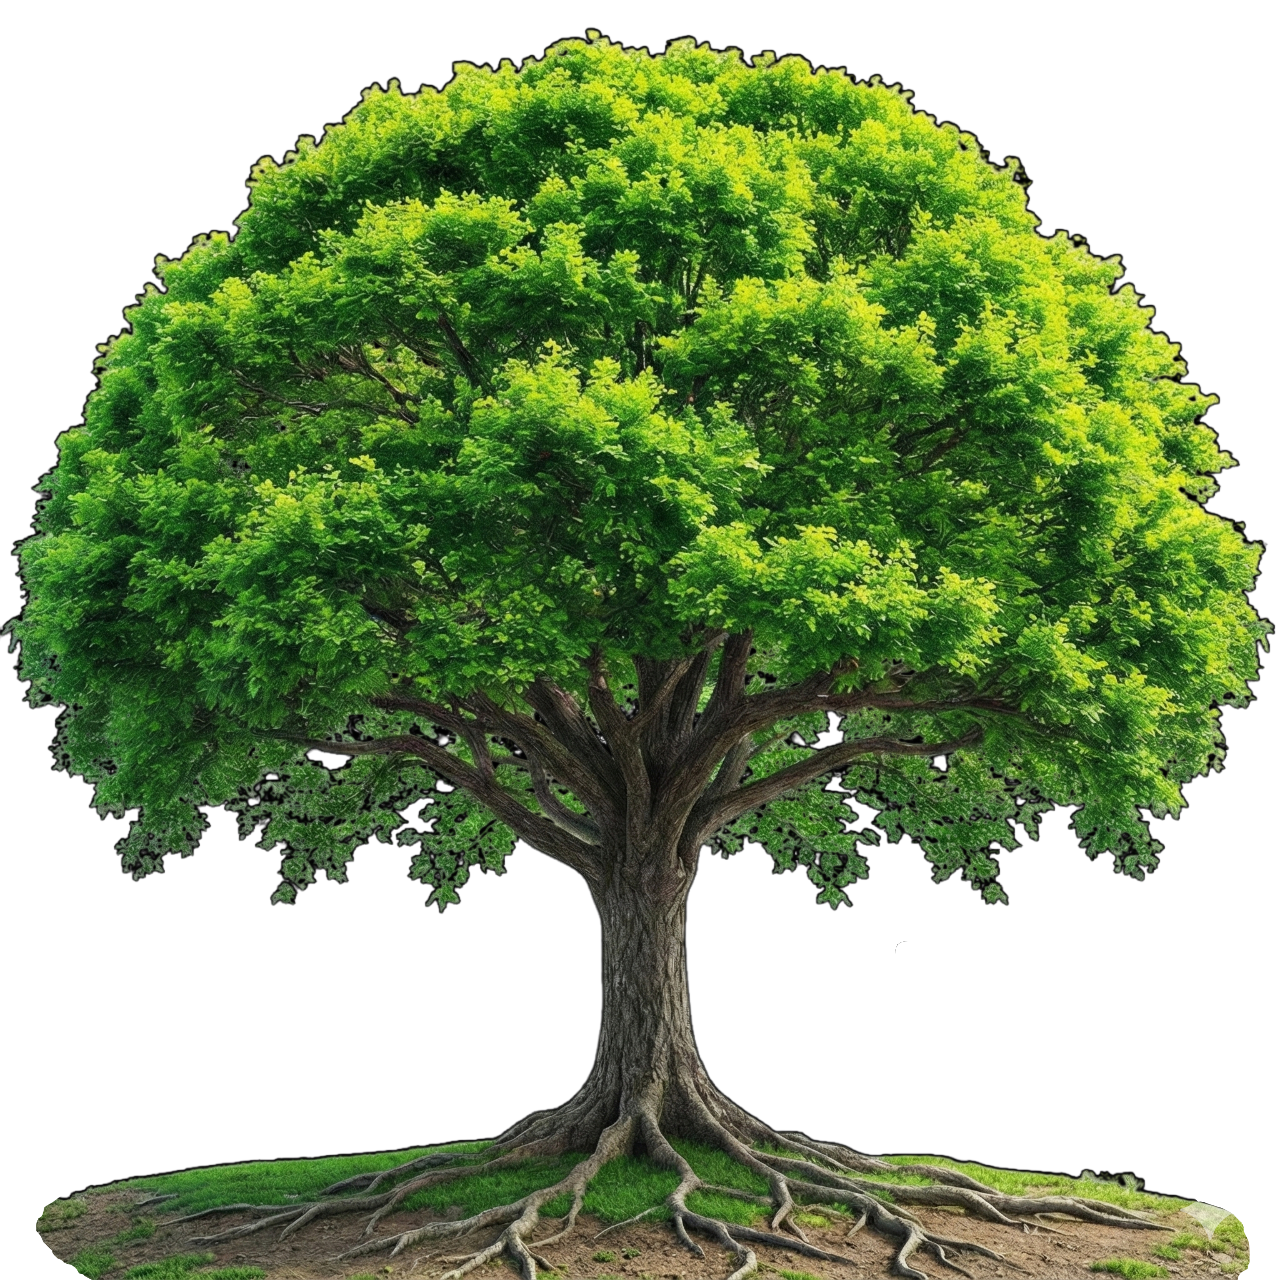
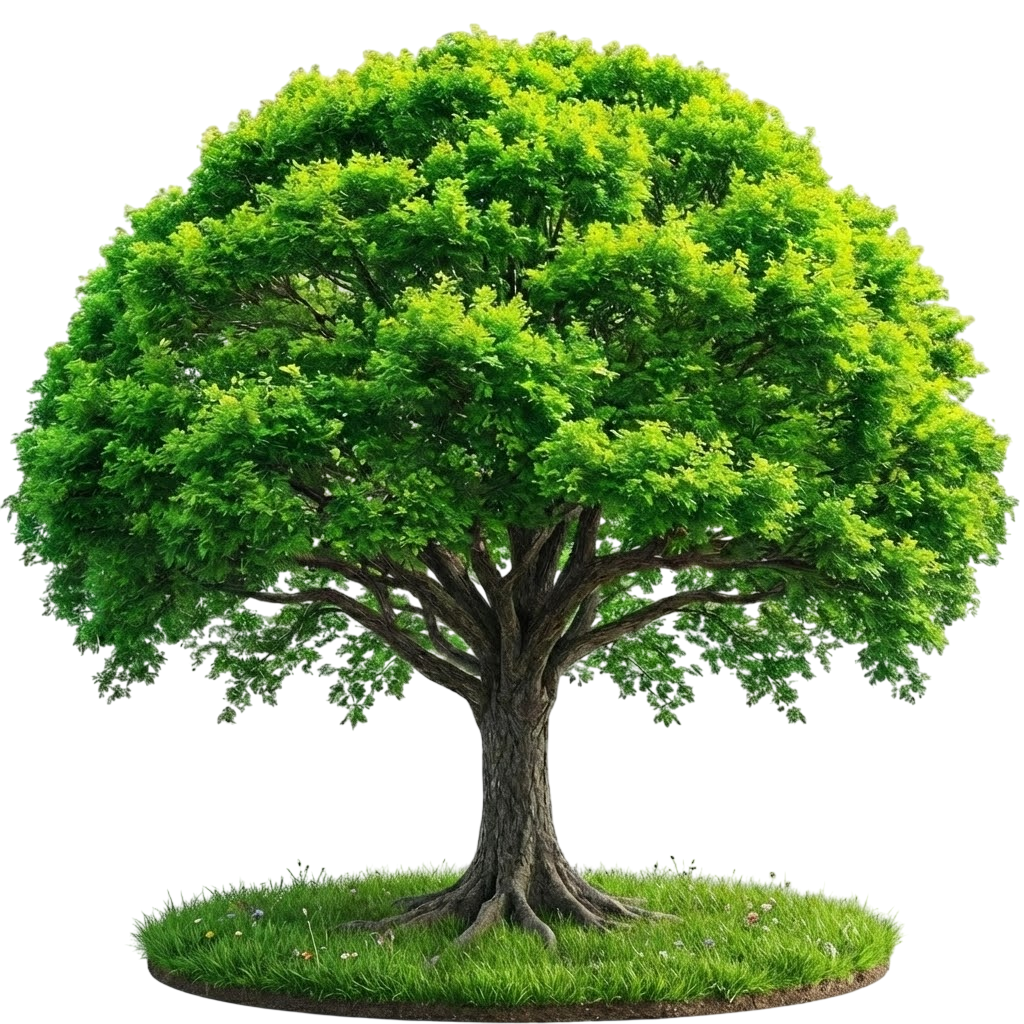
fix faq.js imports

Changed region(s): [[0.0, 0.0, 1.0, 1.0]]

diff --git a/src/styles.css b/src/styles.css
@@ -1548,7 +1548,7 @@ p {
 
 @media (max-width: 968px) {
   .about-split-section {
-    padding: 0;
+    padding: 0 0 30px;
     color: var(--color-med-grey);
     overflow: hidden;
   }
